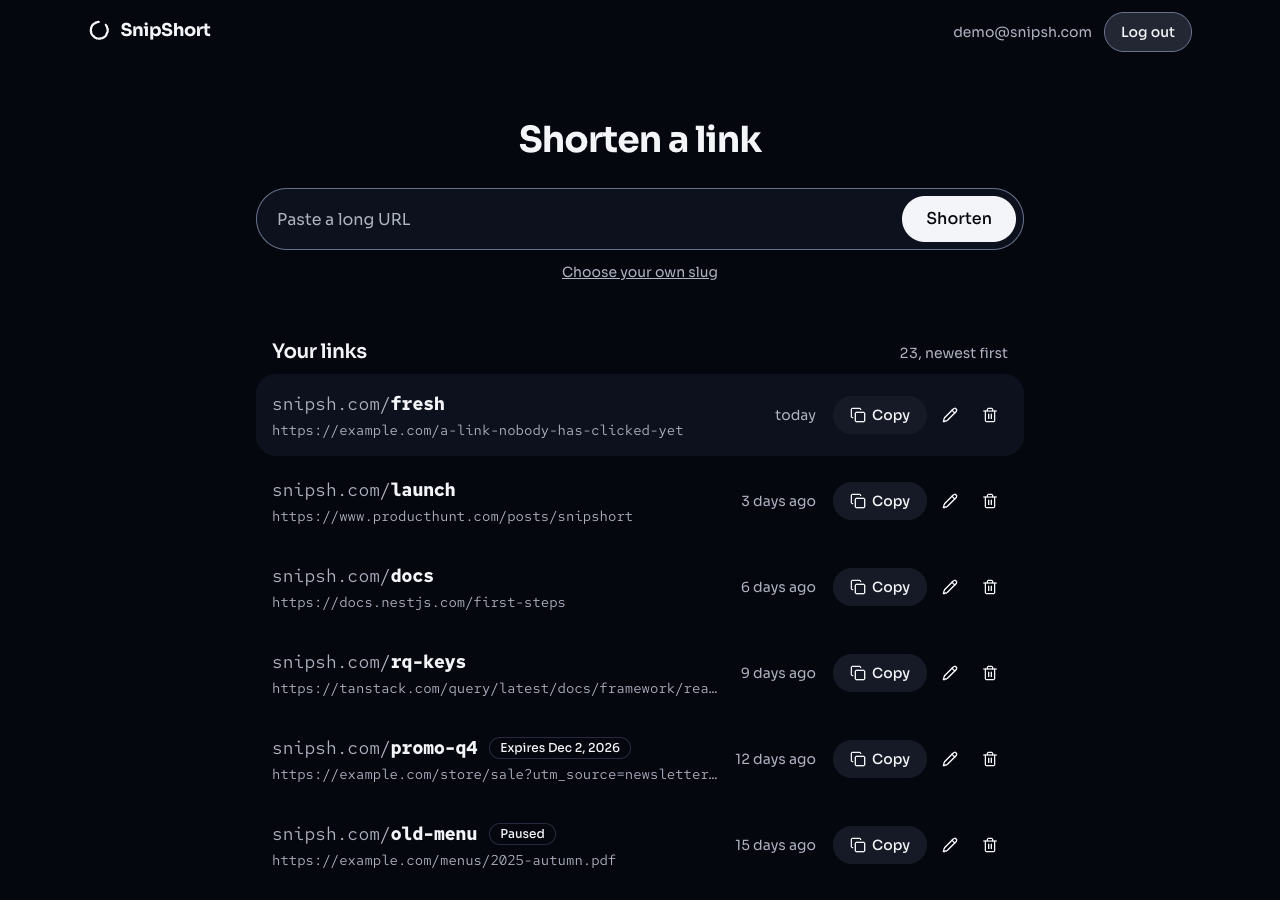
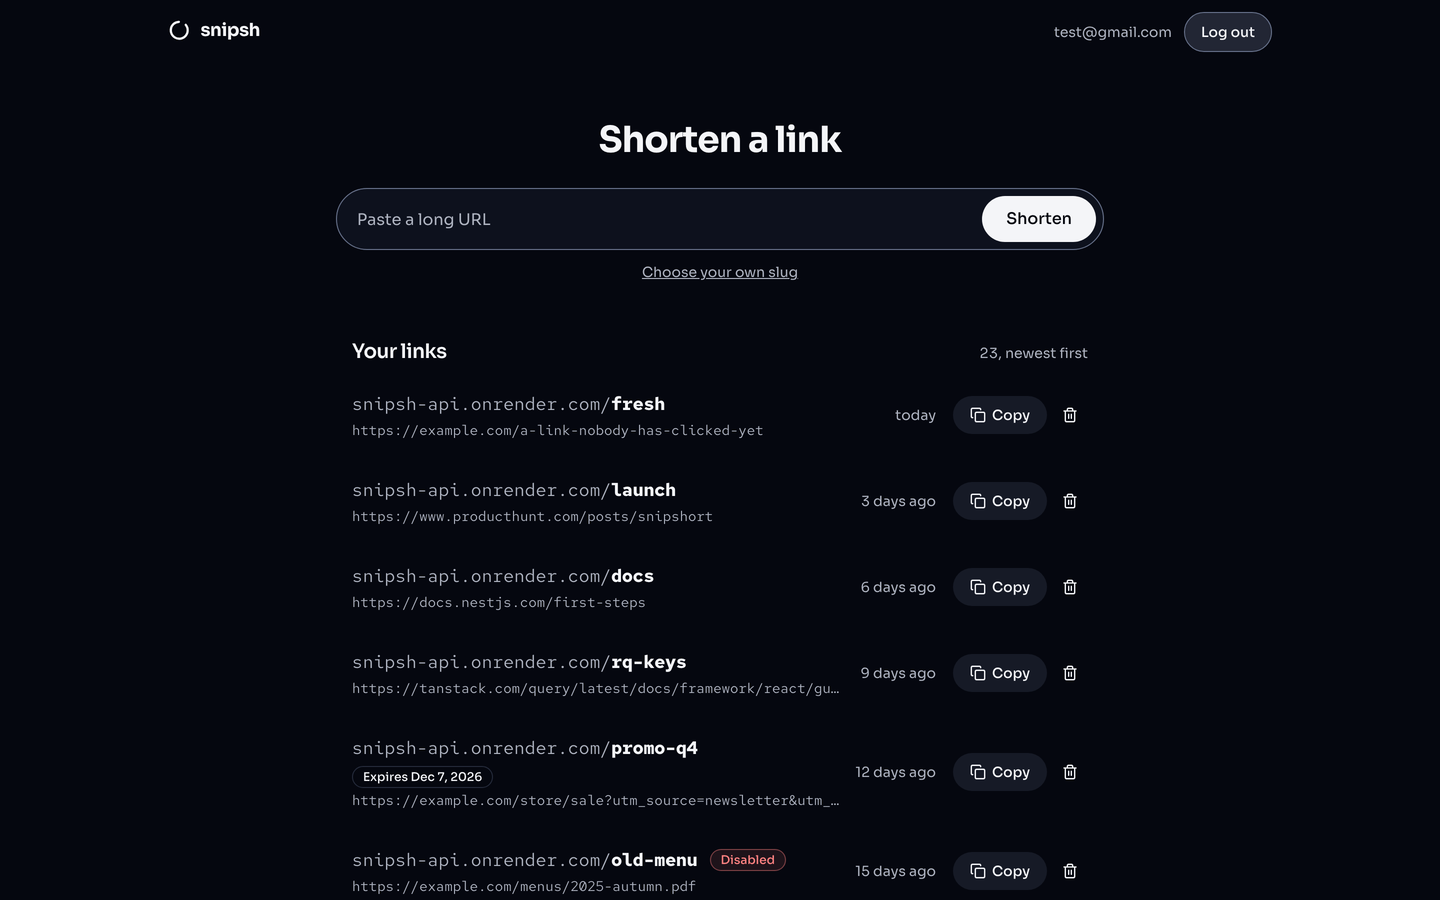
docs: refresh the screenshots and show them in the root README
Retake the landing, links and link details screenshots after the landing
page rebuild, and list them in portfolio.json for the portfolio site.
Replace the remaining snipsh.com examples with the Render address.

diff --git a/apps/web/README.md b/apps/web/README.md
@@ -1,6 +1,6 @@
 # snipsh
 
-**Long links, cut short.** snipsh turns a long URL into a short link like `snipsh.com/aB3x9` and counts every click it gets.
+**Long links, cut short.** snipsh turns a long URL into a short link like `snipsh-api.onrender.com/aB3x9` and counts every click it gets.
 
 **Live:** https://snipsh-swya.vercel.app  
 **Backend API:** [`apps/api`](../api)  
@@ -18,7 +18,7 @@ The links and click figures below come from the sample data in the mock API, not
 
 ![The links page: a paste bar to shorten a URL, then a list of short links with copy and delete actions](docs/links.png)
 
-![A link's details page: its destination, three click figures, a clicks-per-day chart and a table of where clicks came from](docs/link-details.png)
+![A link's details page: its destination, three click figures and a clicks-per-day chart](docs/link-details.png)
 
 <img src="docs/link-details-mobile.png" alt="The link details page on a phone, 390px wide" width="320">
 
@@ -26,13 +26,13 @@ The links and click figures below come from the sample data in the mock API, not
 
 A short-link service is a backend. These pages are the front door; the part that makes snipsh work is the **[API](../api)** next to this app:
 
-- **Redirects.** `GET /:slug` is public and answers with a `302` to the long URL. That is the whole product: someone opens `snipsh.com/aB3x9` and lands on the page it stands for.
+- **Redirects.** `GET /:slug` is public and answers with a `302` to the long URL. That is the whole product: someone opens `snipsh-api.onrender.com/aB3x9` and lands on the page it stands for.
 - **Accounts.** Register and log in with email and password. Passwords are hashed, and requests carry a JWT.
 - **Links.** Create a link with a random or a custom slug, and read or delete your own. A link belongs to one user, and anyone else gets a `404`. Slugs that would clash with real routes, such as `links` or `auth`, are rejected.
 - **Built with** NestJS, Prisma and PostgreSQL.
 
 ```
- browser ──▶ snipsh.com/aB3x9 ──▶ API looks up the slug ──▶ 302 ──▶ the long URL
+ browser ──▶ snipsh-api.onrender.com/aB3x9 ──▶ API looks up the slug ──▶ 302 ──▶ the long URL
 ```
 
 The frontend never handles the redirect; the API does. See the [API](../api) for its endpoints, data model and how to run it.
@@ -45,6 +45,7 @@ The frontend never handles the redirect; the API does. See the [API](../api) for
 - **Manage your links.** A paginated list with copy and delete (asking first).
 - **See the clicks.** Each link has a page with total clicks, a clicks-per-day chart, and a top-referrers table.
 - **Try it without an account.** The landing page previews a short link in the browser, and the demo account is one click away.
+- **A landing page that shows the idea.** Scrolling cuts a long URL down to its short link, a click line draws itself, and the status codes the API sends slide past in a pinned track. People who ask for less motion get the same content, still.
 - **Dark and light.** Dark is the designed look; the theme follows your system setting.
 - **Works on a phone**, from 360px wide, with real labels, visible focus rings and keyboard-usable dialogs.
 
@@ -80,7 +81,7 @@ Open http://localhost:5173 and log in with the demo account above.
 | Variable | Example | Purpose |
 |---|---|---|
 | `VITE_API_URL` | `http://localhost:3000` | Base URL of the API. |
-| `VITE_SHORT_DOMAIN` | `https://snipsh.com` | Base of every short link shown in the app. Set it to `http://localhost:3000` to test redirects against a local API. |
+| `VITE_SHORT_DOMAIN` | `https://snipsh-api.onrender.com` | Base of every short link shown in the app. Set it to `http://localhost:3000` to test redirects against a local API. |
 | `VITE_USE_MOCKS` | `true` | `true` answers API calls in the browser with MSW. `false` calls the real API. |
 
 They are read and validated once, in `src/env.ts`. `.env` is not committed; `.env.example` is.

diff --git a/README.md b/README.md
@@ -9,6 +9,18 @@ This repository holds both halves: the NestJS API and the React web app.
 | API | [`apps/api`](apps/api) | https://snipsh-api.onrender.com |
 | Web | [`apps/web`](apps/web) | https://snipsh-swya.vercel.app |
 
+## Screenshots
+
+The landing page, the links page and a link's details page. The links and click figures come from the sample data in the web app's mock API, not from real traffic.
+
+![The snipsh landing page: a dark page with the headline "Long links, cut short.", a paste bar, and a glowing blue arc like a horizon](apps/web/docs/landing.png)
+
+![The links page: a paste bar to shorten a URL, then a list of short links with copy and delete actions](apps/web/docs/links.png)
+
+![A link's details page: its destination, three click figures and a clicks-per-day chart](apps/web/docs/link-details.png)
+
+## Running it
+
 Each app has its own `package.json` and is installed and run from its own folder:
 
 ```bash
